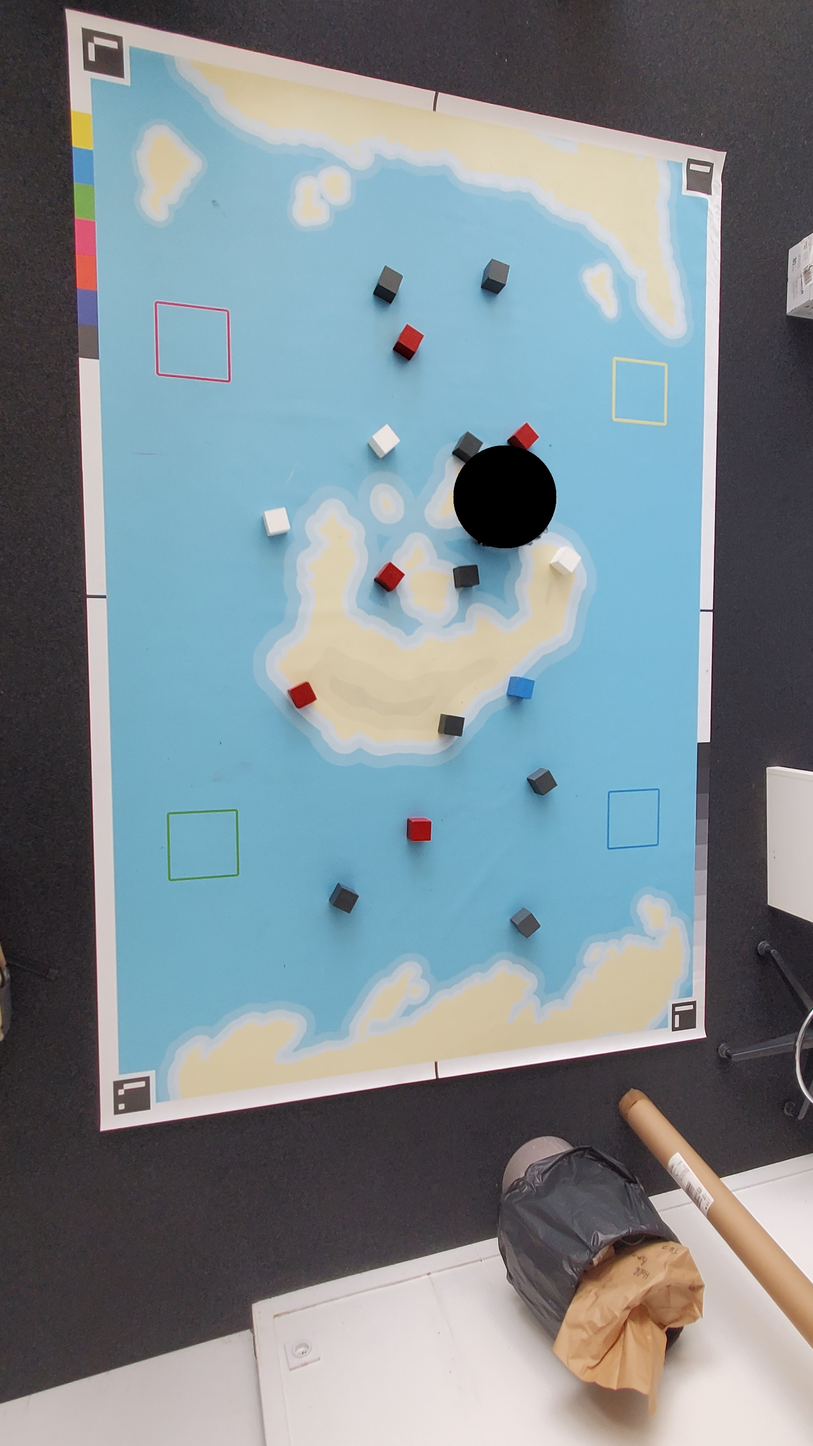
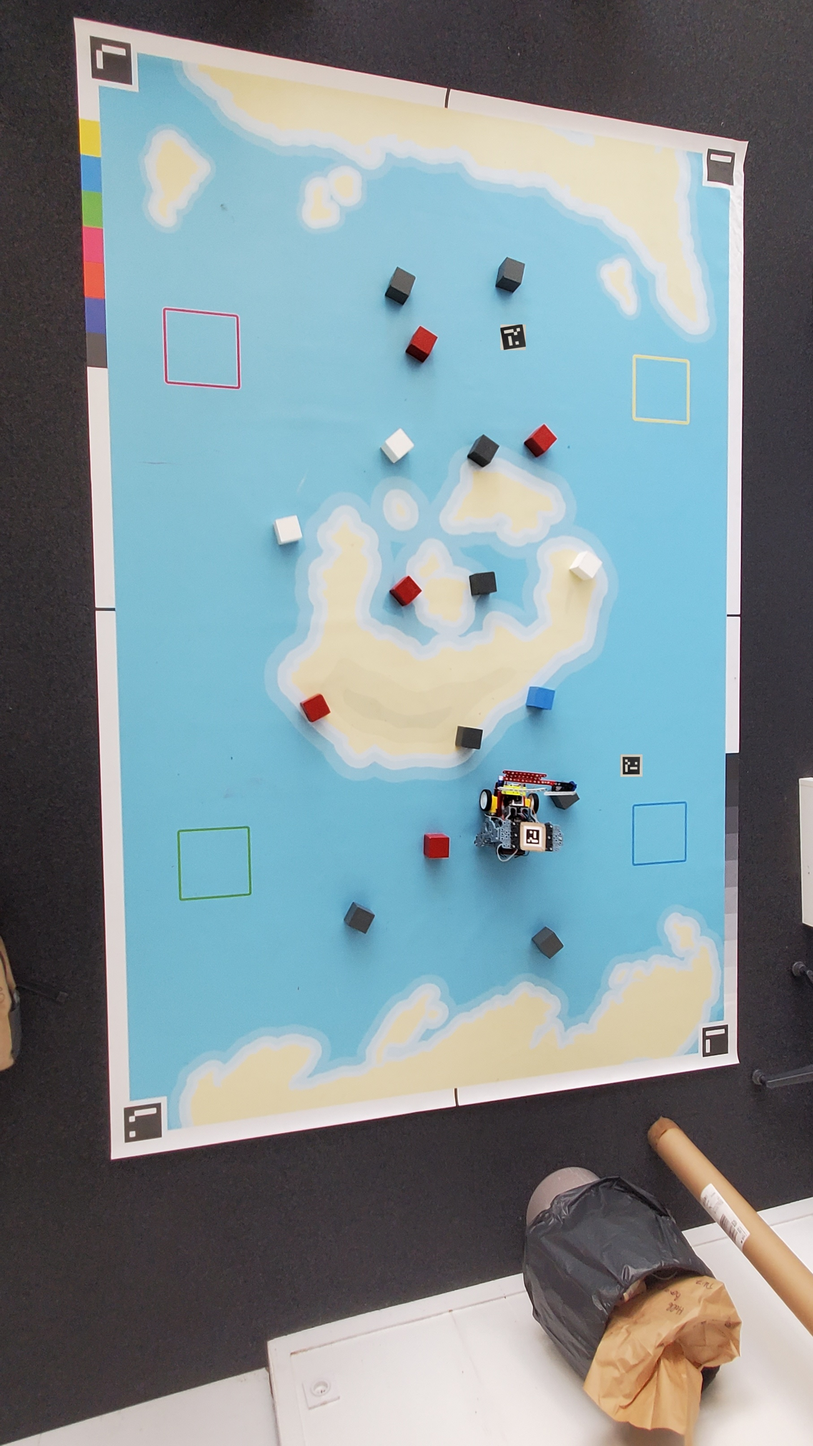
Meilleure hitbox et vecteur de direction

diff --git a/pythonProject/main.py b/pythonProject/main.py
@@ -65,14 +65,13 @@ nomImages = (
     "Images\PhotoCarteRobot10.jpg",                        #cpt =  8
     "Images\ConfigBlocsAvecArucoCote1.jpg",                #cpt =  9
     "Images\PhotoCarteTelephone5.jpg",                     #cpt =  10
-    "Images\ConfigBlocsAvecArucoCote3.jpg",                #cpt =  11
-    "Images\ConfigBlocsAvecArucoDessusLoin1.jpg",          #cpt =  12
-    "Images\ConfigBlocsAvecArucoDessusProche1.jpg")        #cpt =  13
+    "Images\PhotoCarteRobot11.jpg",                        #cpt =  11
+    "Images\ConfigBlocsAvecArucoDessusLoin1.jpg")          #cpt =  12
 nbImages = len(nomImages)
 
 frame = cv2.imread(nomImages[0])
 
-cpt = 2
+cpt = 11
 
 while True:
     if TEST == 0:
@@ -82,7 +81,7 @@ while True:
         frame = cv2.resize(frame, (0, 0), fx=0.7, fy=0.7)
         if cv2.waitKey(1) & 0xFF == ord('p'):                   # While the code is running press 'p' to go to the next image
             cpt += 1
-            if cpt == nbImages:
+            if cpt == nbImages + 1:
                 cpt = 0
     gray = cv2.cvtColor(frame, cv2.COLOR_BGR2GRAY)
 
@@ -108,16 +107,50 @@ while True:
                 Corner4 = p4
 
         M = calculate_perspective_transform_matrix(Corner1, Corner2, Corner4, Corner3, final_size)
-        hit_img = frame.copy()
-        for i in range(len(ids)):
-            if ids[i] == 132:
-                # Calculate the midpoint between the bottom two corners
-                bottom_midpoint_x = (int(corners[i][0][2][0]) + int(corners[i][0][3][0])) // 2
-                bottom_midpoint_y = (int(corners[i][0][2][1]) + int(corners[i][0][3][1])) // 2
 
+        dst = cv2.warpPerspective(frame, M, final_size)
+
+        RB = 132
+        tailleRB = 70
+        # Saving the images to a file
+        cv2.imwrite("Images\Frame.jpg", frame)
+        cv2.imwrite("Images\Transformed_image.jpg", dst)
+
+        vector_img = cv2.imread("Images\Transformed_image.jpg")
+        # Detect ArUco markers in the image.
+        corners, marker_ids, rejected = detector.detectMarkers(vector_img)
+
+        # If markers are detected, draw them on the image.
+        if marker_ids is not None:
+            # looping through detected markers and marker ids at same time.
+            for corner, marker_id in zip(corners, marker_ids):
+                # Draw the marker corners.
+                if (marker_id[0] == RB):
+                    cv2.polylines(
+                        vector_img, [corner.astype(np.int32)], True, (0, 0, 202), 1, cv2.LINE_AA
+                    )
+
+                # Get the top-right, top-left, bottom-right, and bottom-left corners of the marker.
+                # change the shape of numpy array to 4 by 2
+                corner = corner.reshape(4, 2)
+
+                # change the type of numpy array values integers
+                corner = corner.astype(int)
+
+                # extracting the corner of marker
+                top_left, top_right, bottom_right, bottom_left = corner
+
+                # Calculate the midpoint between the bottom two corners
+                bottom_midpoint_x = (top_right[0] + bottom_right[0]) // 2
+                bottom_midpoint_y = (top_right[1] + bottom_right[1]) // 2
+
+                mid_midpoint_x = (top_right[0] + bottom_left[0]) // 2
+                mid_midpoint_y = (top_right[1] + bottom_left[1]) // 2
+
+                cv2.circle(vector_img, (bottom_midpoint_x, bottom_midpoint_y), 3, (0, 255, 0), -1)
                 # Calculate the direction vector from the bottom two corners
-                direction_vector_x = int(corners[i][0][2][0]) - int(corners[i][0][3][0])
-                direction_vector_y = int(corners[i][0][2][1]) - int(corners[i][0][3][1])
+                direction_vector_x = bottom_midpoint_x - mid_midpoint_x
+                direction_vector_y = bottom_midpoint_y - mid_midpoint_y
 
                 # Normalize the direction vector
                 direction_vector_length = np.sqrt(direction_vector_x ** 2 + direction_vector_y ** 2)
@@ -125,24 +158,49 @@ while True:
                 normalized_direction_vector_y = direction_vector_y / direction_vector_length
 
                 # Move the midpoint 10 pixels in front of the equidistance of the bottom two corners
-                new_center_x = bottom_midpoint_x + int(65 * normalized_direction_vector_x)
-                new_center_y = bottom_midpoint_y + int(65 * normalized_direction_vector_y)
-                # Draw a circle in front of the aruco (New Hitbox)
-                cv2.circle(frame, (new_center_x, new_center_y),
-                           115,
-                           (0, 0, 0), -1)
+                new_center_x = bottom_midpoint_x + int(20 * normalized_direction_vector_x)
+                new_center_y = bottom_midpoint_y + int(20 * normalized_direction_vector_y)
 
-        dst = cv2.warpPerspective(frame, M, final_size)
-        hit_img = cv2.warpPerspective(hit_img, M, final_size)
+                centre = (new_center_x, new_center_y)
 
-        # Saving the images to a file
-        cv2.imwrite("Images\Frame.jpg", frame)
-        cv2.imwrite("Images\Transformed_image.jpg", hit_img)
-        cv2.imwrite("Images\Hitbox.jpg", dst)
+                if (marker_id[0] == RB):
+                    RBCoords = centre
+                    cv2.circle(dst, RBCoords, tailleRB, (0, 0, 0), -1)
+
+                    # Coordonnées des points sur la première ligne
+                    point1 = top_right
+                    point2 = bottom_right
+
+                    # Coordonnées du point de départ pour la deuxième ligne
+                    start_point = centre  # Modifier selon vos besoins
+
+                    # Calculer le vecteur de direction de la ligne
+                    direction_vector = np.array([(point2[0] - point1[0]), (point2[1] - point1[1])])
+
+                    # Normaliser le vecteur de direction
+                    direction_vector = direction_vector / np.linalg.norm(direction_vector)
+
+                    # Taille de la deuxième ligne (vous pouvez ajuster cette valeur)
+                    taille_ligne = 65
+
+                    # Calculer les nouveaux points de fin pour la deuxième ligne
+                    new_point1 = (int(start_point[0]), int(start_point[1]))
+                    new_point2 = (int(start_point[0] + taille_ligne * normalized_direction_vector_x),
+                                  int(start_point[1] + taille_ligne * normalized_direction_vector_y))
+
+                    # Dessiner la deuxième ligne parallèle
+                    cv2.line(vector_img, new_point1, new_point2, (220, 33, 20), 3)
+
+        # Save the image.
+        cv2.imwrite("Images\Transformed_image.jpg", dst)
+        cv2.imwrite("Images\Cache.jpg", vector_img)
+        # Afficher l'image transformée avec bordure
+        cv2.imshow("Cache", vector_img)
+
 
         # Open the image
         image = cv2.imread(
-            "Images/Hitbox.jpg")
+            "Images/Transformed_image.jpg")
 
         # Define the dimensions of the centered rectangle
         crop_width = 1110
@@ -162,13 +220,13 @@ while True:
 
         # Adding a Grid
         square_size = 16  # Size of each square in pixels
-        grid_img = Grid.add_grid(dst, square_size)
+        grid_img = dst.copy()
+        grid_img = Grid.add_grid(grid_img, square_size)
 
         #Displaying different results
-        cv2.imshow('Perspective Transformation Result', hit_img)
         cv2.imshow('Hitbox', dst)
         cv2.imshow('Cropped image', cropped_image)
-        cv2.imshow('Grid', grid_img)
+        '''cv2.imshow('Grid', grid_img)'''
 
         img_copy = dst.copy()
 
@@ -272,6 +330,15 @@ while True:
         cv2.imshow("Red mask", display_red_mask)
         cv2.imshow("Grey mask", display_grey_mask)
         cv2.imshow("White mask", display_white_mask)
+
+        # Superimpose the two masks on the black background
+        superimposed_img = cv2.bitwise_or(red_mask, magenta_mask)
+
+        # Invert the superimposed image to get original colors
+        inverted_img = cv2.bitwise_not(superimposed_img)
+
+        # Display the superimposed image
+        cv2.imshow("Superimposed Image", inverted_img)
     if cv2.waitKey(1) & 0xFF == ord('q'):
         break
 
